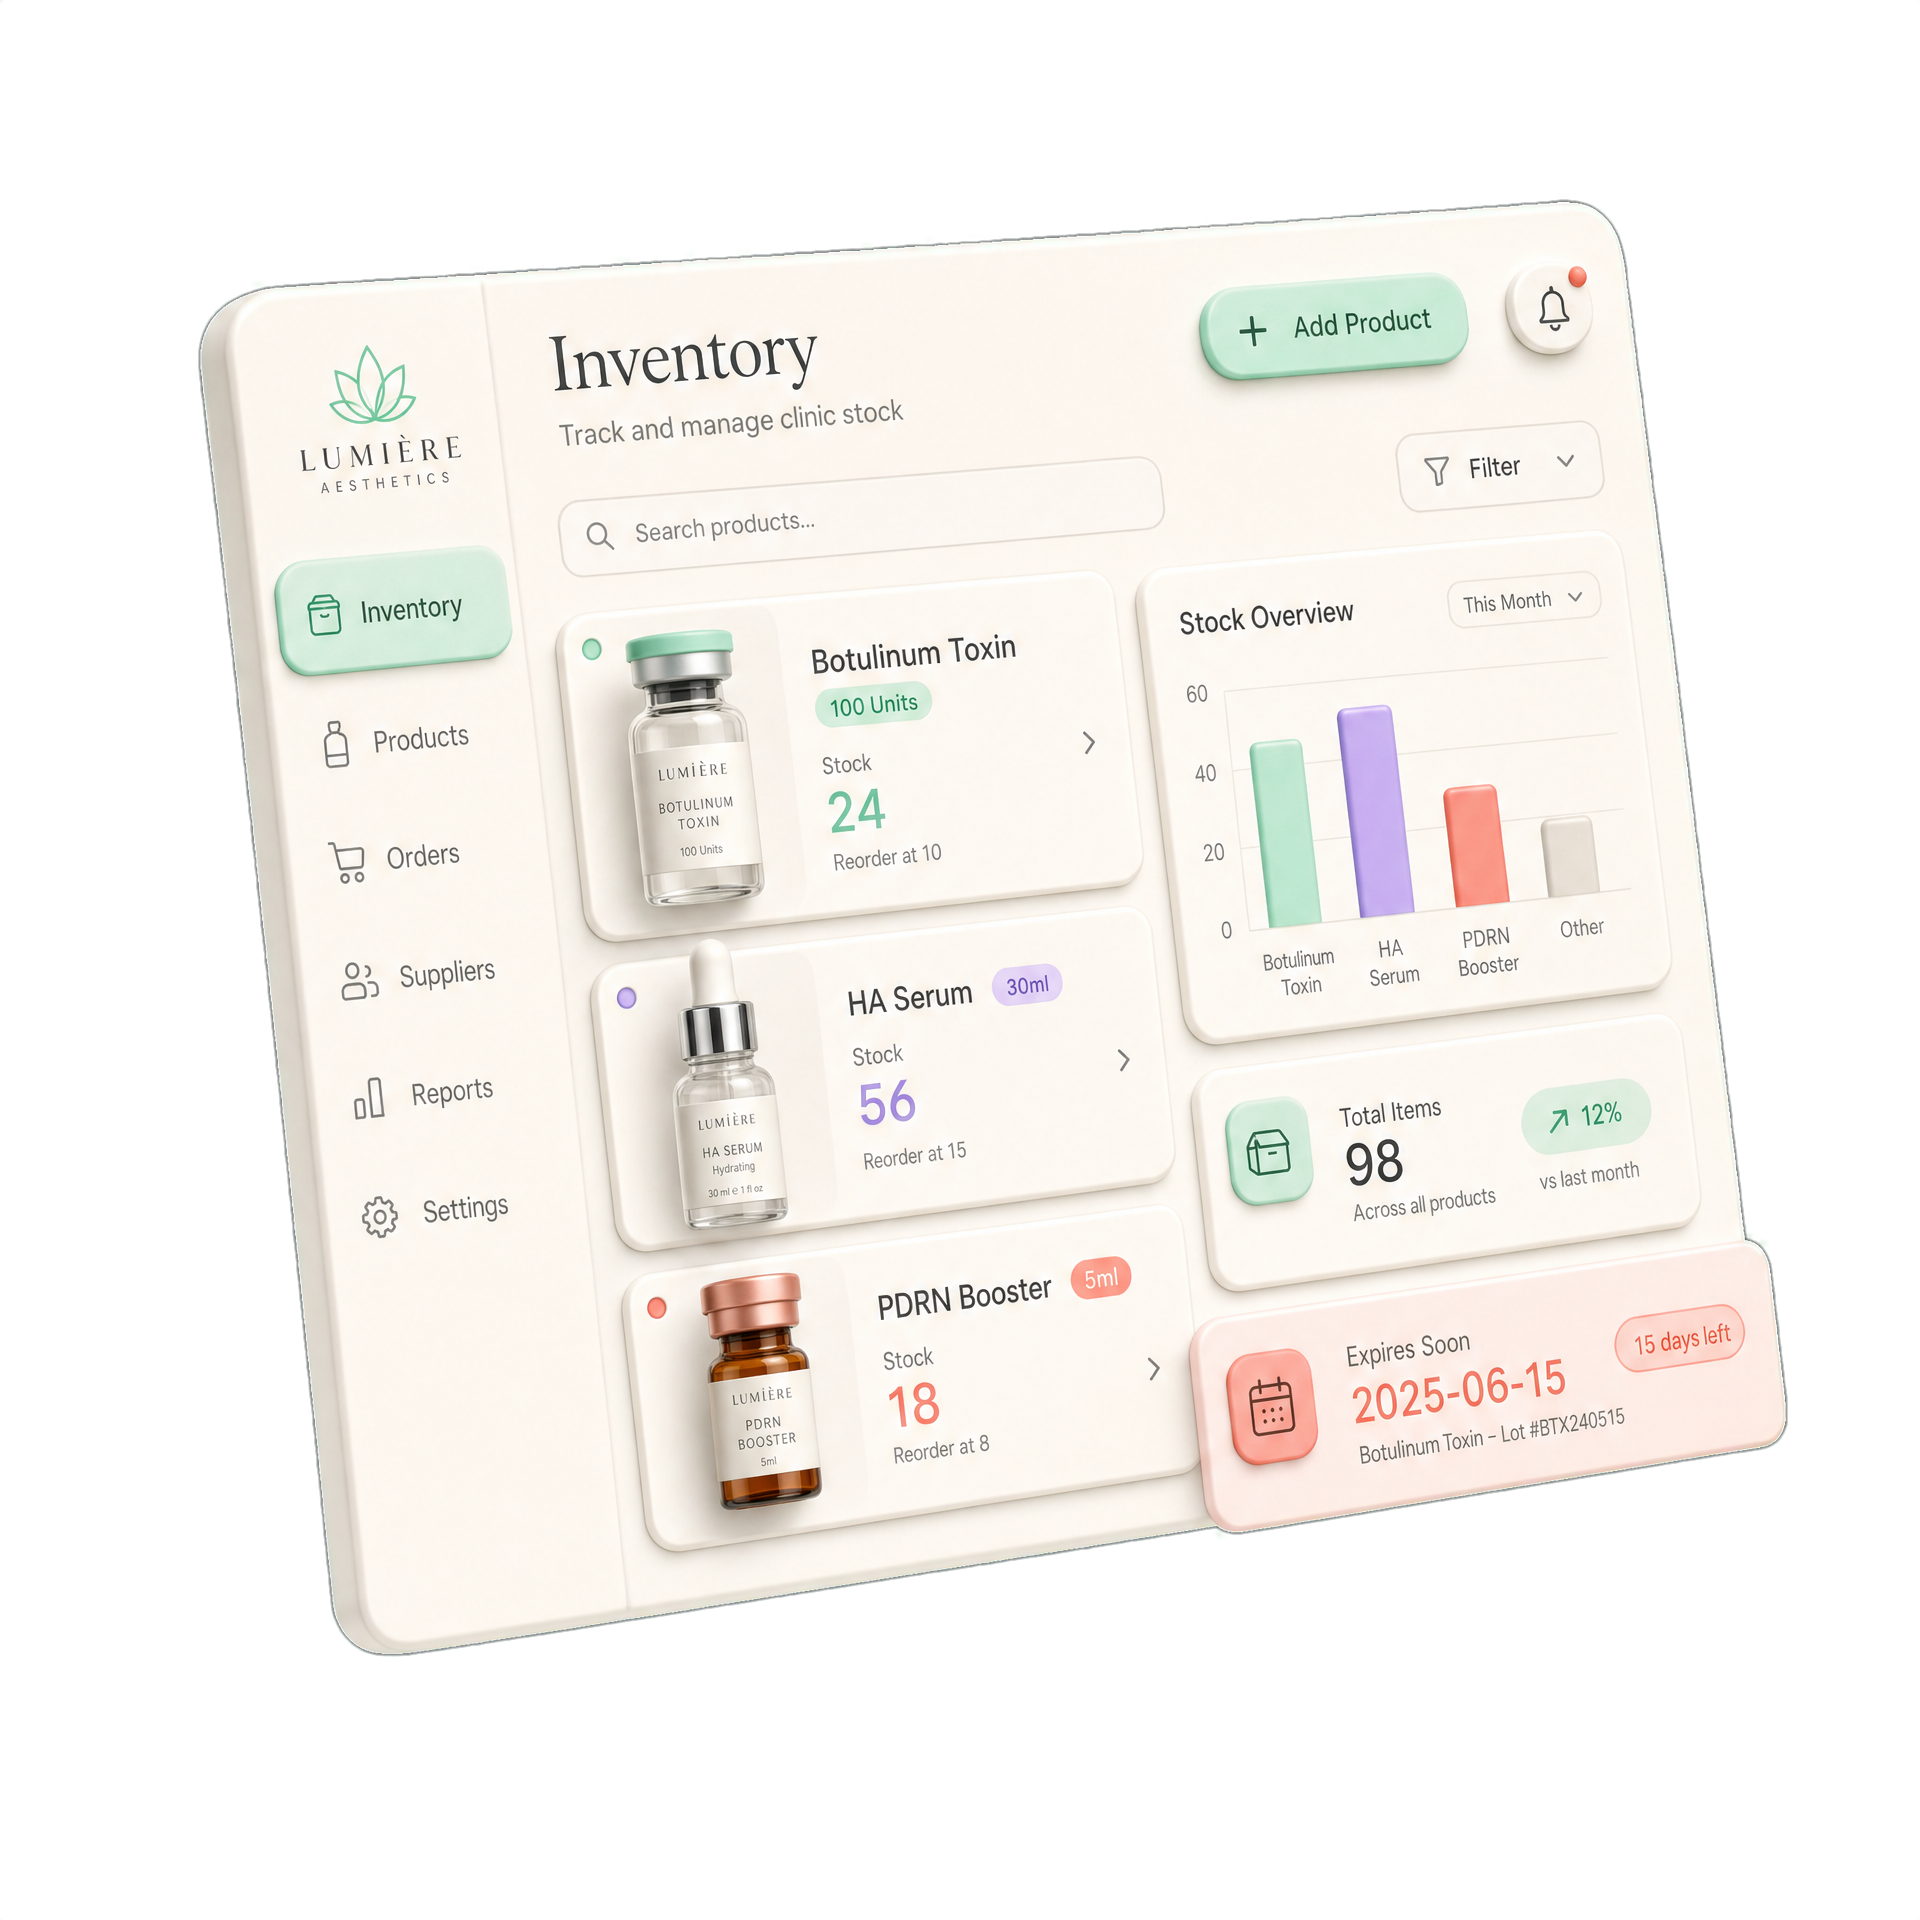
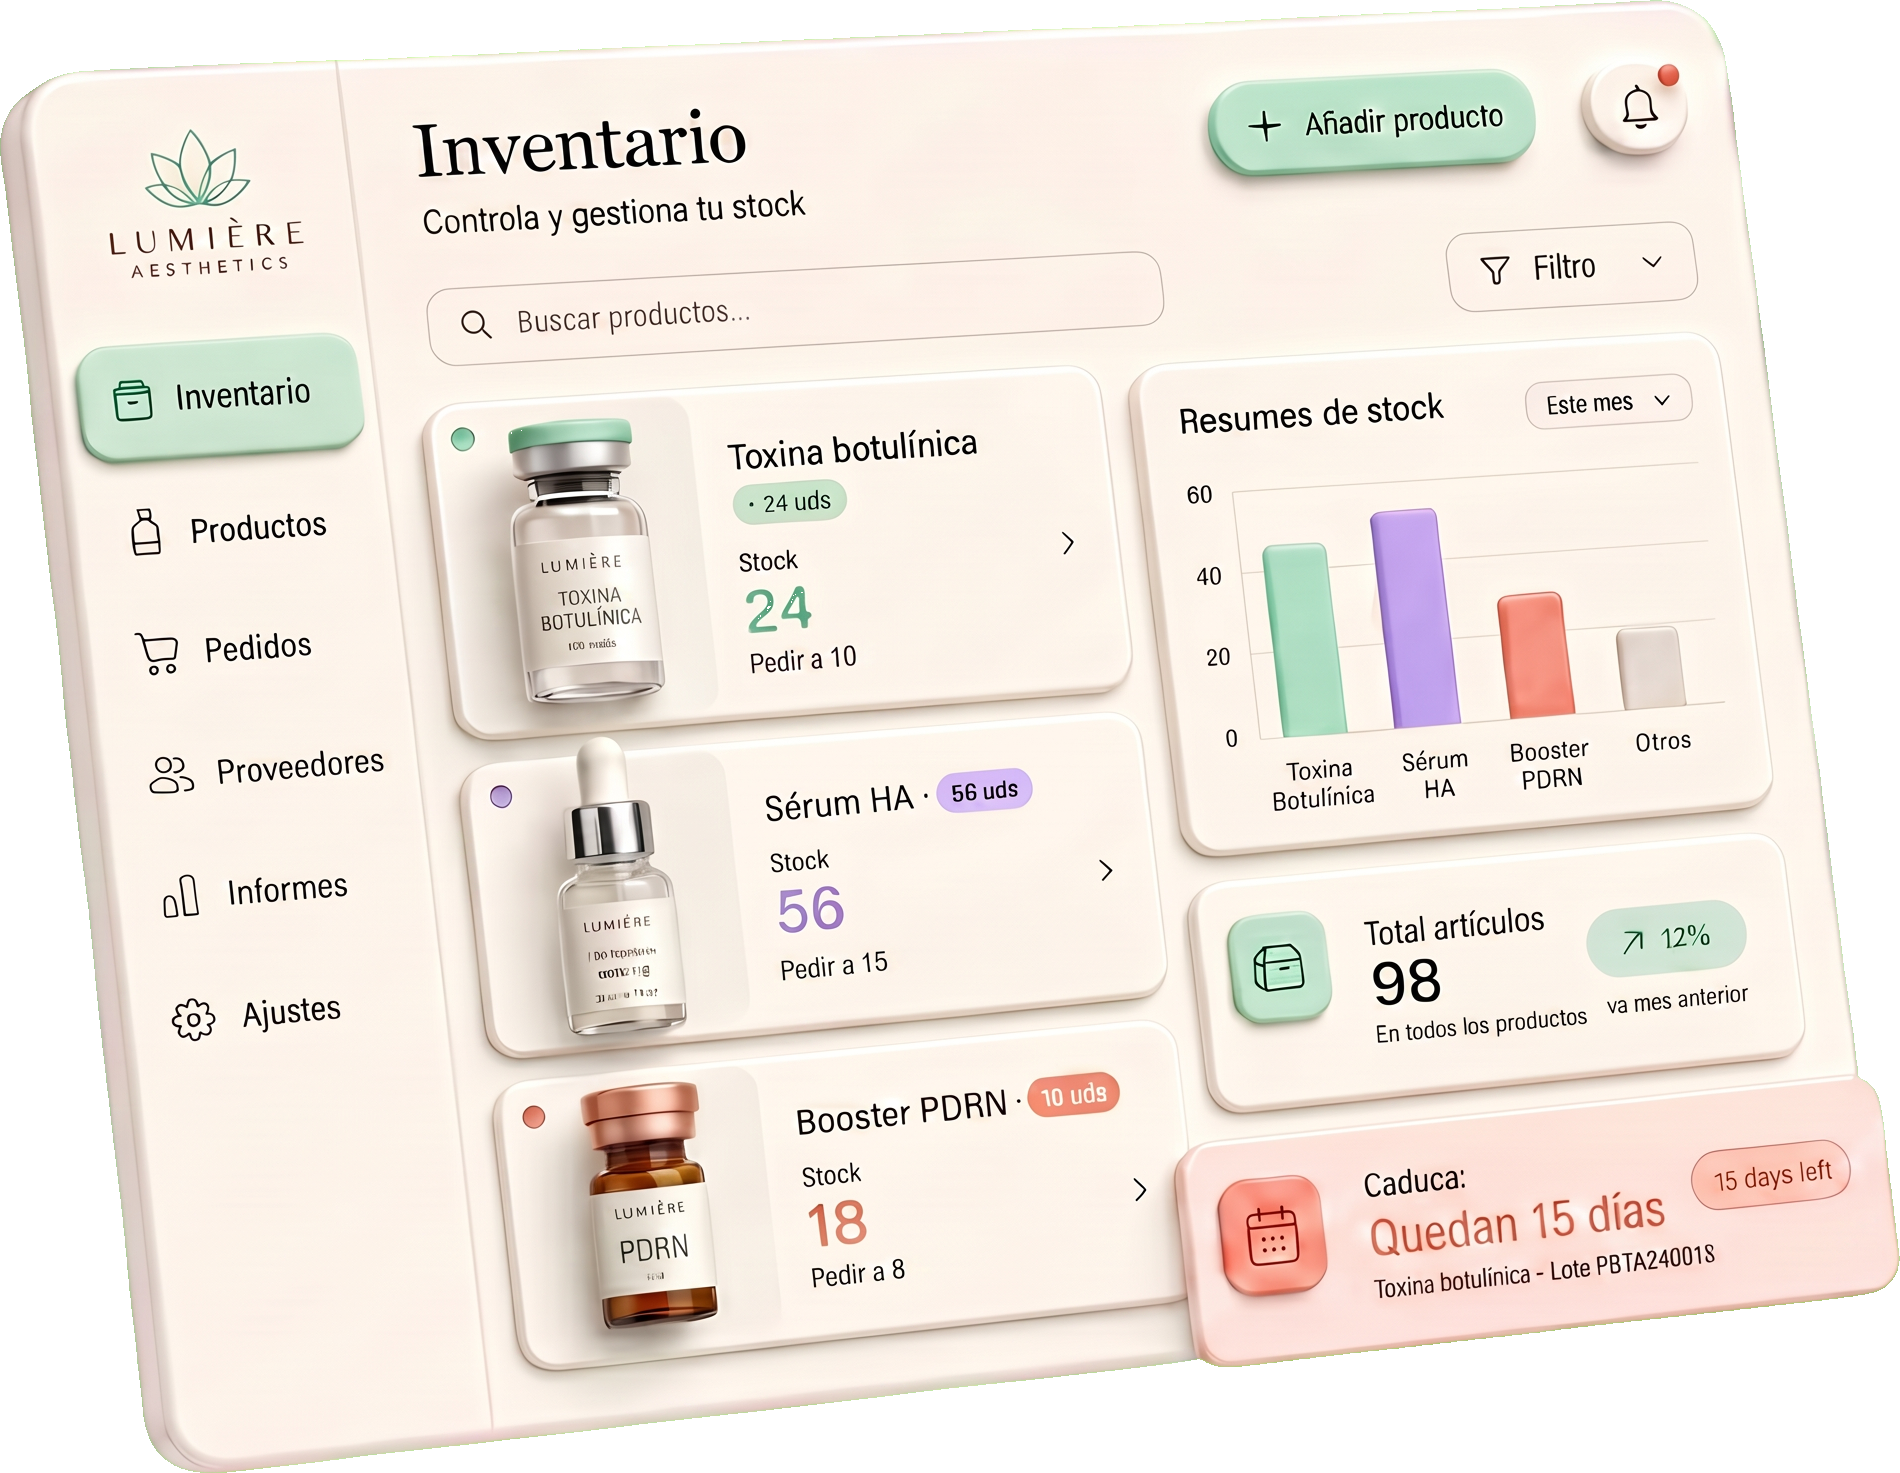
Landing: mockups 'Y ademas' regenerados en espanol, flotantes, pequenos y con orientacion distinta cada uno; responsive

diff --git a/mvp/index.html b/mvp/index.html
@@ -355,12 +355,18 @@ img{max-width:100%;display:block}
 .pf-row{opacity:1}.pf-visual.run .pf-row{opacity:0;transform:translateY(8px);transition:opacity .4s var(--ease),transform .4s var(--ease)}.pf-visual.run .pf-row.show{opacity:1;transform:none}
 @keyframes pfFill{to{width:38%}}
 /* Imagenes flotantes ladeadas en tarjetas 'Y ademas' */
-.b-card.feat-card{position:relative;overflow:visible;display:flex;flex-direction:column}
-.feat-card{position:relative;overflow:visible;display:flex;flex-direction:column}
-/* La imagen va en el flujo, debajo del texto: nunca lo tapa. Grande, ladeada y con sombra. */
-.feat-img{display:block;width:88%;max-width:300px;height:auto;margin:1.4rem auto -1.2rem;transform:rotate(-3deg);filter:drop-shadow(0 20px 34px rgba(31,32,36,.22));pointer-events:none;transition:transform .4s var(--ease)}
-.feat-card:hover .feat-img{transform:rotate(-1deg) translateY(-4px) scale(1.02)}
-@media(max-width:760px){.feat-img{width:80%;max-width:240px;margin:1.2rem auto -1rem}}
+/* Tarjetas con imagen flotante: reservamos espacio abajo para que la imagen asome sin tapar el texto */
+.b-card.feat-card{position:relative;overflow:visible;padding-bottom:8.5rem}
+.feat-card{position:relative;overflow:visible;padding-bottom:8.5rem}
+.feat-img{position:absolute;bottom:-14px;width:150px;height:auto;filter:drop-shadow(0 16px 28px rgba(31,32,36,.20));pointer-events:none;transition:transform .45s var(--ease);z-index:2}
+/* Cada una con orientacion y posicion distinta */
+.feat-img.fi-1{right:14px;transform:rotate(-7deg)}
+.feat-img.fi-2{left:50%;margin-left:-78px;bottom:-6px;width:156px;transform:rotate(1deg)}
+.feat-img.fi-3{right:10px;width:200px;bottom:-10px;transform:rotate(6deg)}
+.feat-card:hover .feat-img.fi-1{transform:rotate(-4deg) translateY(-5px) scale(1.03)}
+.feat-card:hover .feat-img.fi-2{transform:rotate(0deg) translateY(-5px) scale(1.03)}
+.feat-card:hover .feat-img.fi-3{transform:rotate(3deg) translateY(-5px) scale(1.03)}
+@media(max-width:760px){.b-card.feat-card{padding-bottom:7rem}.feat-card{padding-bottom:7rem}.feat-img{width:120px}.feat-img.fi-2{width:124px;margin-left:-62px}.feat-img.fi-3{width:160px}}
 /* Pipeline guia de ventas */
 .pl-grid{display:grid;grid-template-columns:1fr;gap:1.1rem;margin-top:2.5rem}
 @media(min-width:820px){.pl-grid{grid-template-columns:repeat(3,1fr)}}
@@ -1324,9 +1330,9 @@ img{max-width:100%;display:block}
     <!-- Y además (compacto) -->
     <p class="lead reveal" style="margin-top:3rem;font-weight:700;color:var(--ink)">Y además, todo lo que una clínica necesita:</p>
     <div style="display:grid;grid-template-columns:repeat(auto-fit,minmax(260px,1fr));gap:1rem;margin-top:1rem">
-      <div class="b-card reveal feat-card"><div class="tag">Clínico</div><h3 style="font-size:1.06rem;margin-bottom:.4rem">Historia clínica que <b>te protege y vende</b></h3><p style="color:var(--muted);font-size:.92rem;line-height:1.5">Ficha médica, alergias y consentimientos firmados — <b style="color:var(--ink)">cubierta ante cualquier reclamación</b>. Evolución por visita con plantillas por tratamiento y <b style="color:var(--ink)">fotos antes/después que cierran la siguiente venta</b>. Como Pabau, pero sin complicaciones.</p><img class="feat-img" src="/assets/feat-clinica.png" alt="ficha de paciente AURA" loading="lazy"></div>
-      <div class="b-card reveal feat-card"><div class="tag lav">Agenda anti no-show</div><h3 style="font-size:1.06rem;margin-bottom:.4rem">Recordatorios SMS <b>+ llamada de confirmación guiada</b></h3><p style="color:var(--muted);font-size:.92rem;line-height:1.5">SMS automáticos (24h y 2h antes) y, además, AURA le dice a tu recepción <b style="color:var(--ink)">a quién llamar y la frase exacta para confirmar la cita</b>. Así <b style="color:var(--ink)">recuperas la cita antes de que se convierta en un hueco vacío</b>.</p><img class="feat-img" src="/assets/feat-agenda.png" alt="agenda y recordatorios AURA" loading="lazy"></div>
-      <div class="b-card reveal feat-card"><div class="tag">Stock</div><h3 style="font-size:1.06rem;margin-bottom:.4rem">Inventario que <b>no deja escapar ni un euro</b></h3><p style="color:var(--muted);font-size:.92rem;line-height:1.5">Viales, lotes y caducidades bajo control: cada tratamiento <b style="color:var(--ink)">descuenta el material solo</b> y te avisa antes de quedarte sin stock. <b style="color:var(--ink)">Cero producto caducado, cero compras de última hora.</b></p><img class="feat-img" src="/assets/feat-stock.png" alt="inventario AURA" loading="lazy"></div>
+      <div class="b-card reveal feat-card"><div class="tag">Clínico</div><h3 style="font-size:1.06rem;margin-bottom:.4rem">Historia clínica que <b>te protege y vende</b></h3><p style="color:var(--muted);font-size:.92rem;line-height:1.5">Ficha médica, alergias y consentimientos firmados — <b style="color:var(--ink)">cubierta ante cualquier reclamación</b>. Evolución por visita con plantillas por tratamiento y <b style="color:var(--ink)">fotos antes/después que cierran la siguiente venta</b>. Como Pabau, pero sin complicaciones.</p><img class="feat-img fi-1" src="/assets/feat-clinica.png?v=3" alt="ficha de paciente AURA en español" loading="lazy"></div>
+      <div class="b-card reveal feat-card"><div class="tag lav">Agenda anti no-show</div><h3 style="font-size:1.06rem;margin-bottom:.4rem">Recordatorios SMS <b>+ llamada de confirmación guiada</b></h3><p style="color:var(--muted);font-size:.92rem;line-height:1.5">SMS automáticos (24h y 2h antes) y, además, AURA le dice a tu recepción <b style="color:var(--ink)">a quién llamar y la frase exacta para confirmar la cita</b>. Así <b style="color:var(--ink)">recuperas la cita antes de que se convierta en un hueco vacío</b>.</p><img class="feat-img fi-2" src="/assets/feat-agenda.png?v=3" alt="agenda y recordatorios AURA en español" loading="lazy"></div>
+      <div class="b-card reveal feat-card"><div class="tag">Stock</div><h3 style="font-size:1.06rem;margin-bottom:.4rem">Inventario que <b>no deja escapar ni un euro</b></h3><p style="color:var(--muted);font-size:.92rem;line-height:1.5">Viales, lotes y caducidades bajo control: cada tratamiento <b style="color:var(--ink)">descuenta el material solo</b> y te avisa antes de quedarte sin stock. <b style="color:var(--ink)">Cero producto caducado, cero compras de última hora.</b></p><img class="feat-img fi-3" src="/assets/feat-stock.png?v=3" alt="inventario AURA en español" loading="lazy"></div>
     </div>
   </section>
 